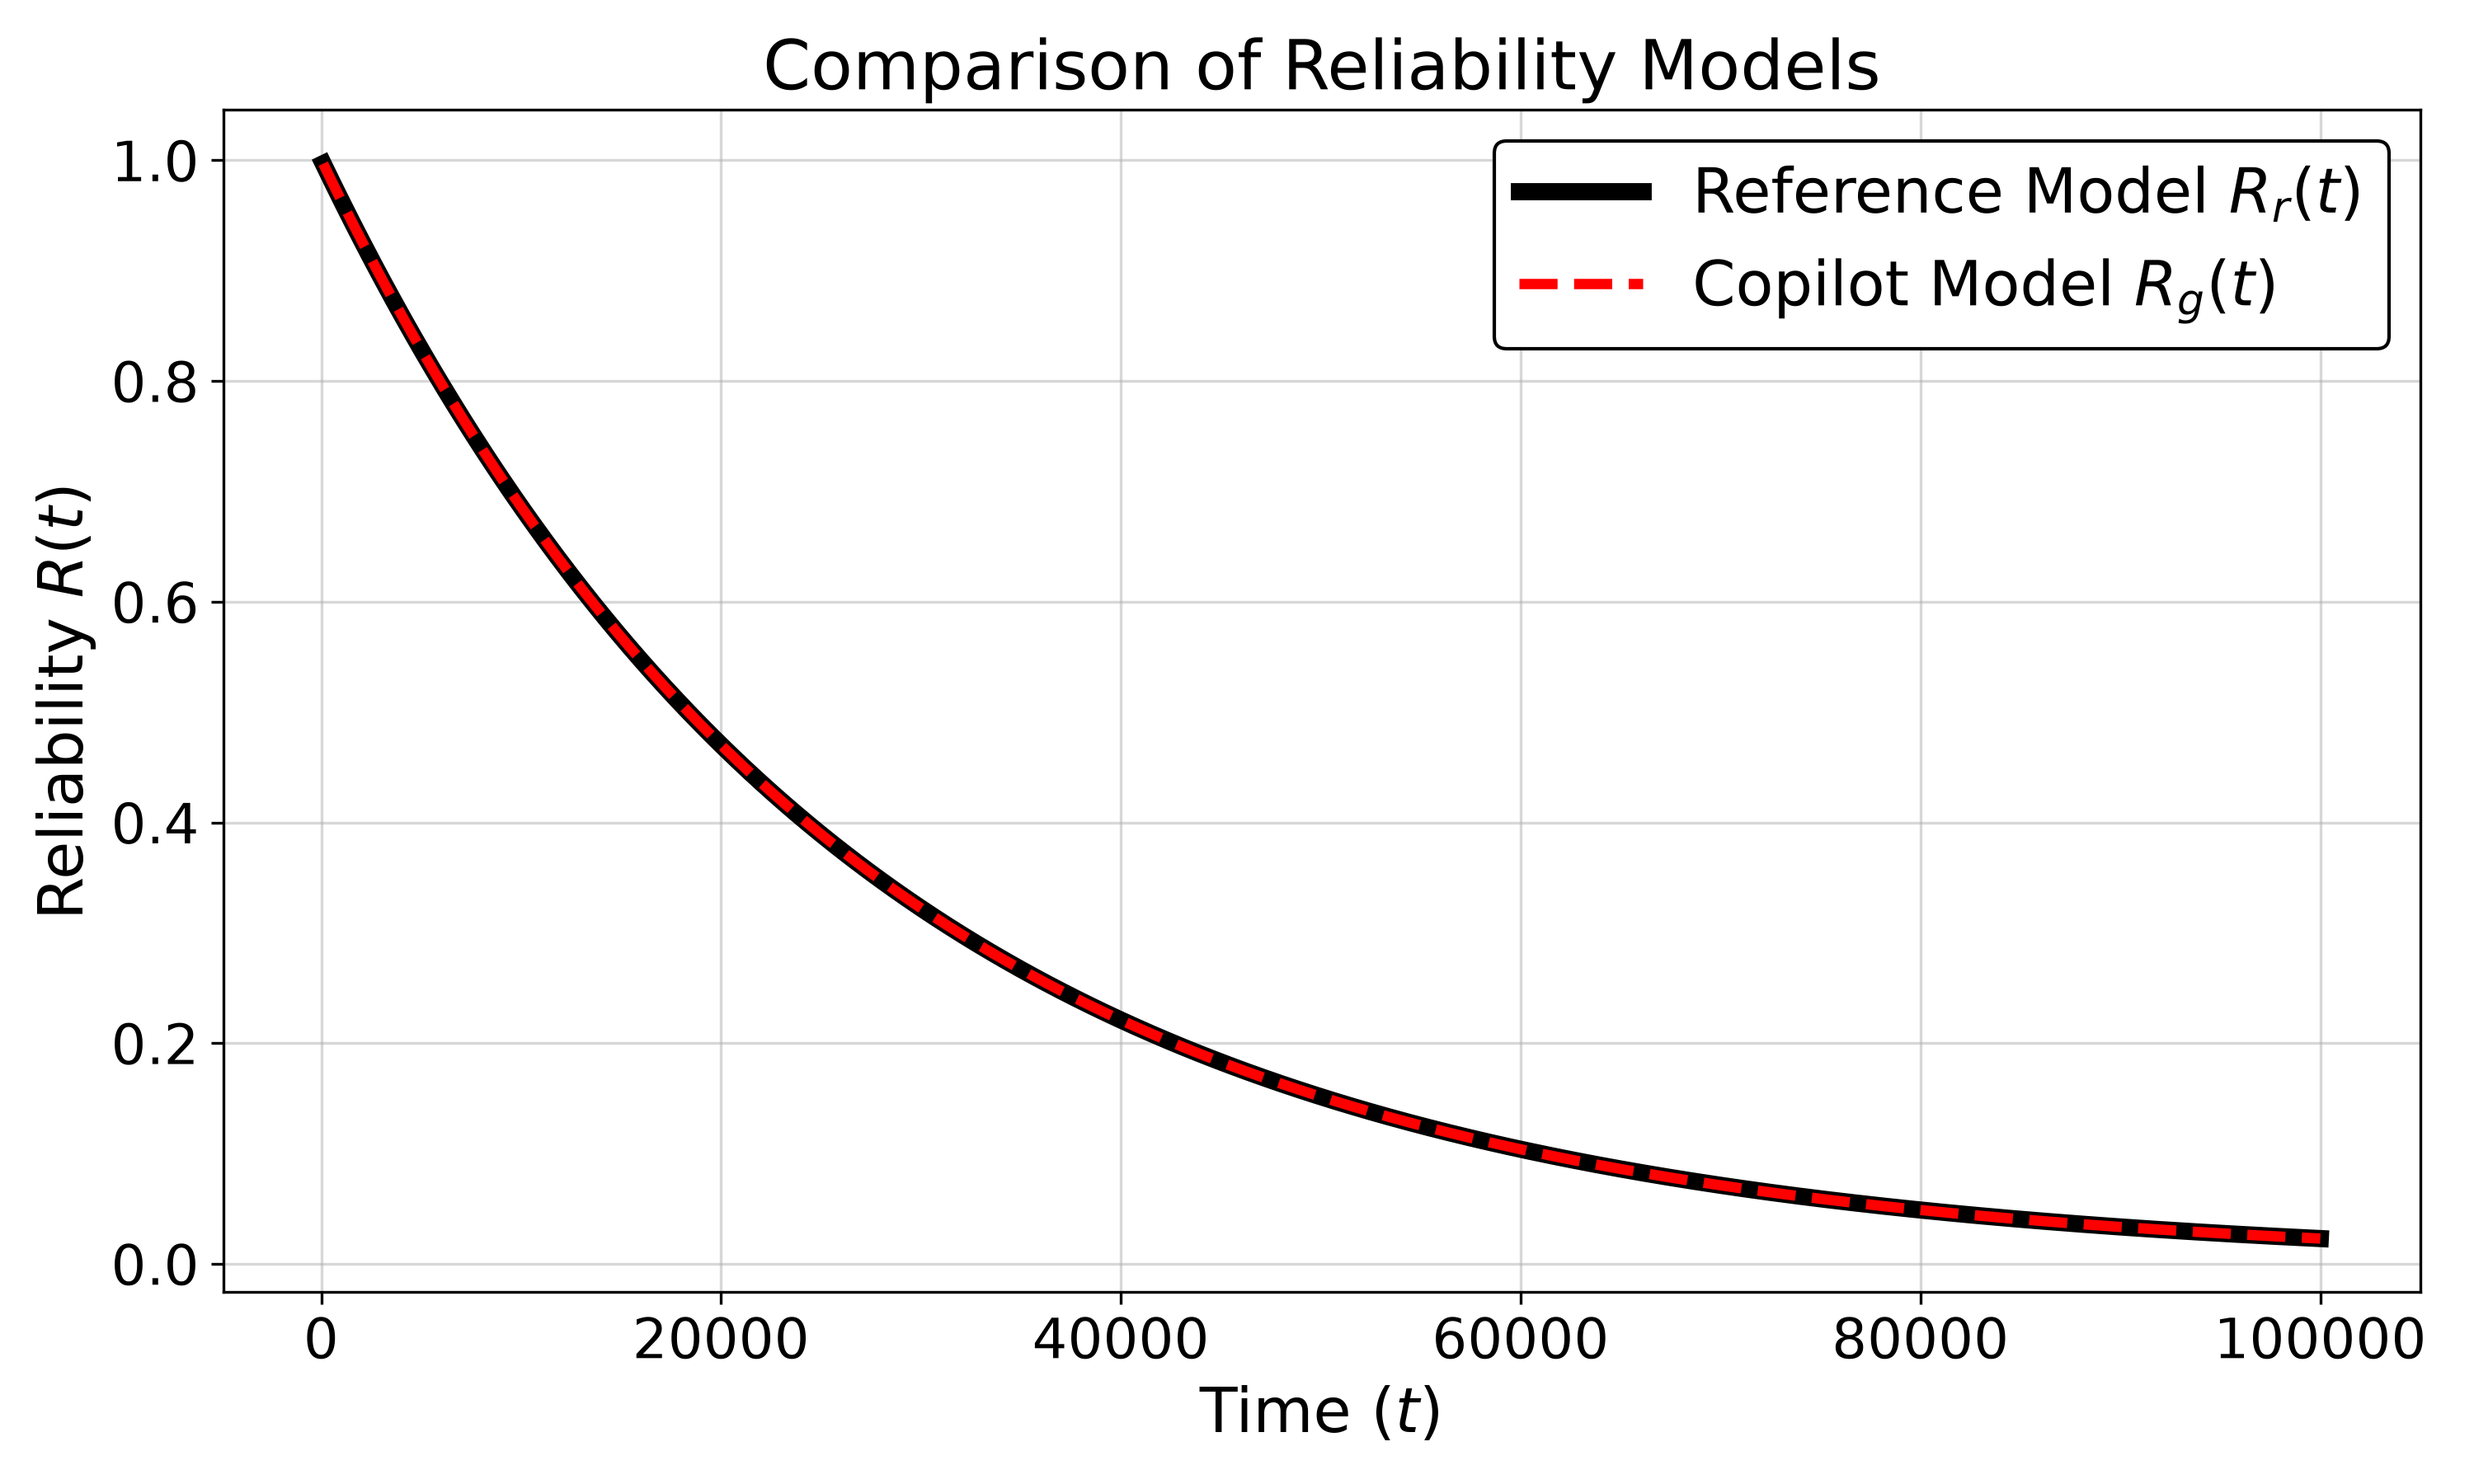
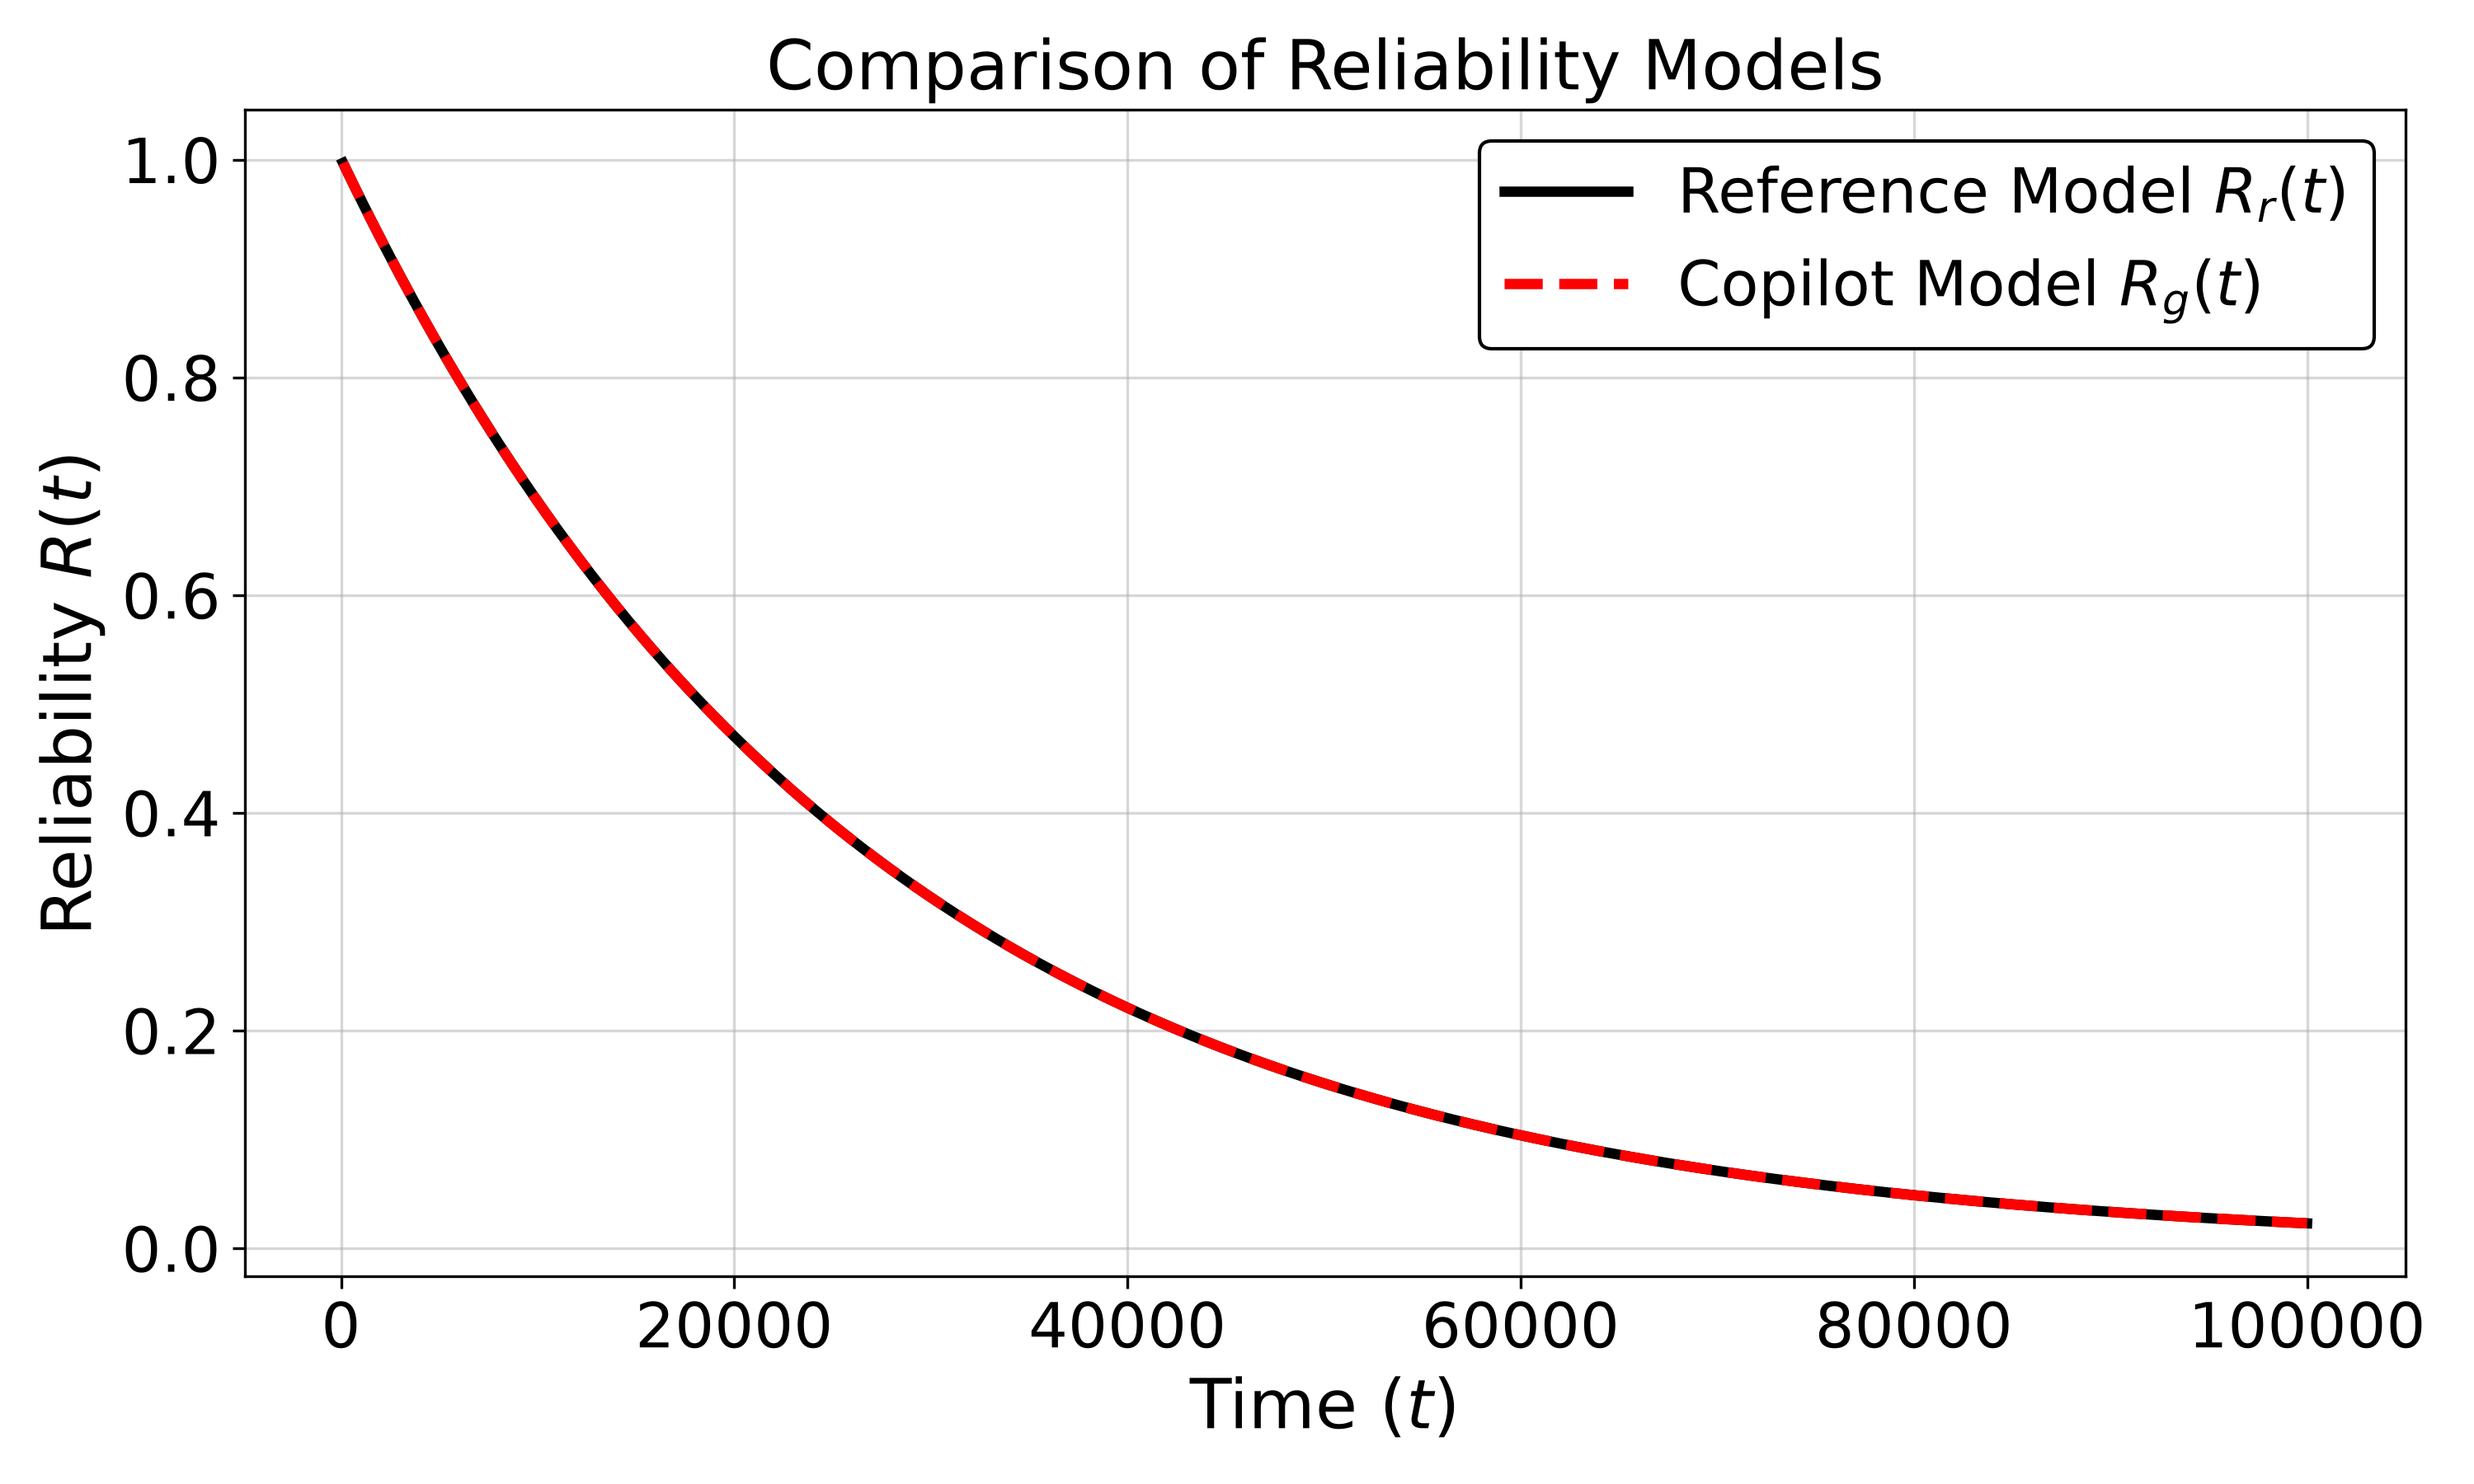
new adjusts

diff --git a/graphics/plot_claude.py b/graphics/plot_claude.py
@@ -17,7 +17,7 @@ plt.figure(figsize=(10, 6))
 # Plot the Reference Model (Black, solid, thick)
 plt.plot(df['Time'], df['Reference'],
          label='Reference Model $R_r(t)$',
-         color='black', linestyle='-', linewidth=5)
+         color='black', linestyle='-', linewidth=3)
 
 # Plot the Generated Model (Red, dashed, overlaid)
 plt.plot(df['Time'], df['Generated'],
@@ -25,12 +25,12 @@ plt.plot(df['Time'], df['Generated'],
          color='red', linestyle='--', linewidth=3)
 
 # 3. Academic Formatting (Titles, legends, and axes)
-plt.xlabel('Time ($t$)', fontsize=18)
-plt.ylabel('Reliability $R(t)$', fontsize=18)
+plt.xlabel('Time ($t$)', fontsize=20)
+plt.ylabel('Reliability $R(t)$', fontsize=20)
 plt.title('Comparison of Reliability Models', fontsize=20)
 
 # Axis tick marks/numbers fontsize
-plt.tick_params(axis='both', which='major', labelsize=16)
+plt.tick_params(axis='both', which='major', labelsize=18)
 
 
 # Configure the legend for the top right corner

diff --git a/graphics/plot_copilot.py b/graphics/plot_copilot.py
@@ -17,7 +17,7 @@ plt.figure(figsize=(10, 6))
 # Plot the Reference Model (Black, solid, thick)
 plt.plot(df['Time'], df['Reference'],
          label='Reference Model $R_r(t)$',
-         color='black', linestyle='-', linewidth=5)
+         color='black', linestyle='-', linewidth=3)
 
 # Plot the Generated Model (Red, dashed, overlaid)
 plt.plot(df['Time'], df['Generated'],
@@ -25,12 +25,12 @@ plt.plot(df['Time'], df['Generated'],
          color='red', linestyle='--', linewidth=3)
 
 # 3. Academic Formatting (Titles, legends, and axes)
-plt.xlabel('Time ($t$)', fontsize=18)
-plt.ylabel('Reliability $R(t)$', fontsize=18)
+plt.xlabel('Time ($t$)', fontsize=20)
+plt.ylabel('Reliability $R(t)$', fontsize=20)
 plt.title('Comparison of Reliability Models', fontsize=20)
 
 # Axis tick marks/numbers fontsize
-plt.tick_params(axis='both', which='major', labelsize=16)
+plt.tick_params(axis='both', which='major', labelsize=18)
 
 
 # Configure the legend for the top right corner

diff --git a/graphics/plot_deep_seek.py b/graphics/plot_deep_seek.py
@@ -17,7 +17,7 @@ plt.figure(figsize=(10, 6))
 # Plot the Reference Model (Black, solid, thick)
 plt.plot(df['Time'], df['Reference'],
          label='Reference Model $R_r(t)$',
-         color='black', linestyle='-', linewidth=5)
+         color='black', linestyle='-', linewidth=3)
 
 # Plot the Generated Model (Red, dashed, overlaid)
 plt.plot(df['Time'], df['Generated'],
@@ -26,12 +26,12 @@ plt.plot(df['Time'], df['Generated'],
 
 
 # 3. Academic Formatting (Titles, legends, and axes)
-plt.xlabel('Time ($t$)', fontsize=18)
-plt.ylabel('Reliability $R(t)$', fontsize=18)
+plt.xlabel('Time ($t$)', fontsize=20)
+plt.ylabel('Reliability $R(t)$', fontsize=20)
 plt.title('Comparison of Reliability Models', fontsize=20)
 
 # Axis tick marks/numbers fontsize
-plt.tick_params(axis='both', which='major', labelsize=16)
+plt.tick_params(axis='both', which='major', labelsize=18)
 
 
 # Configure the legend for the top right corner
